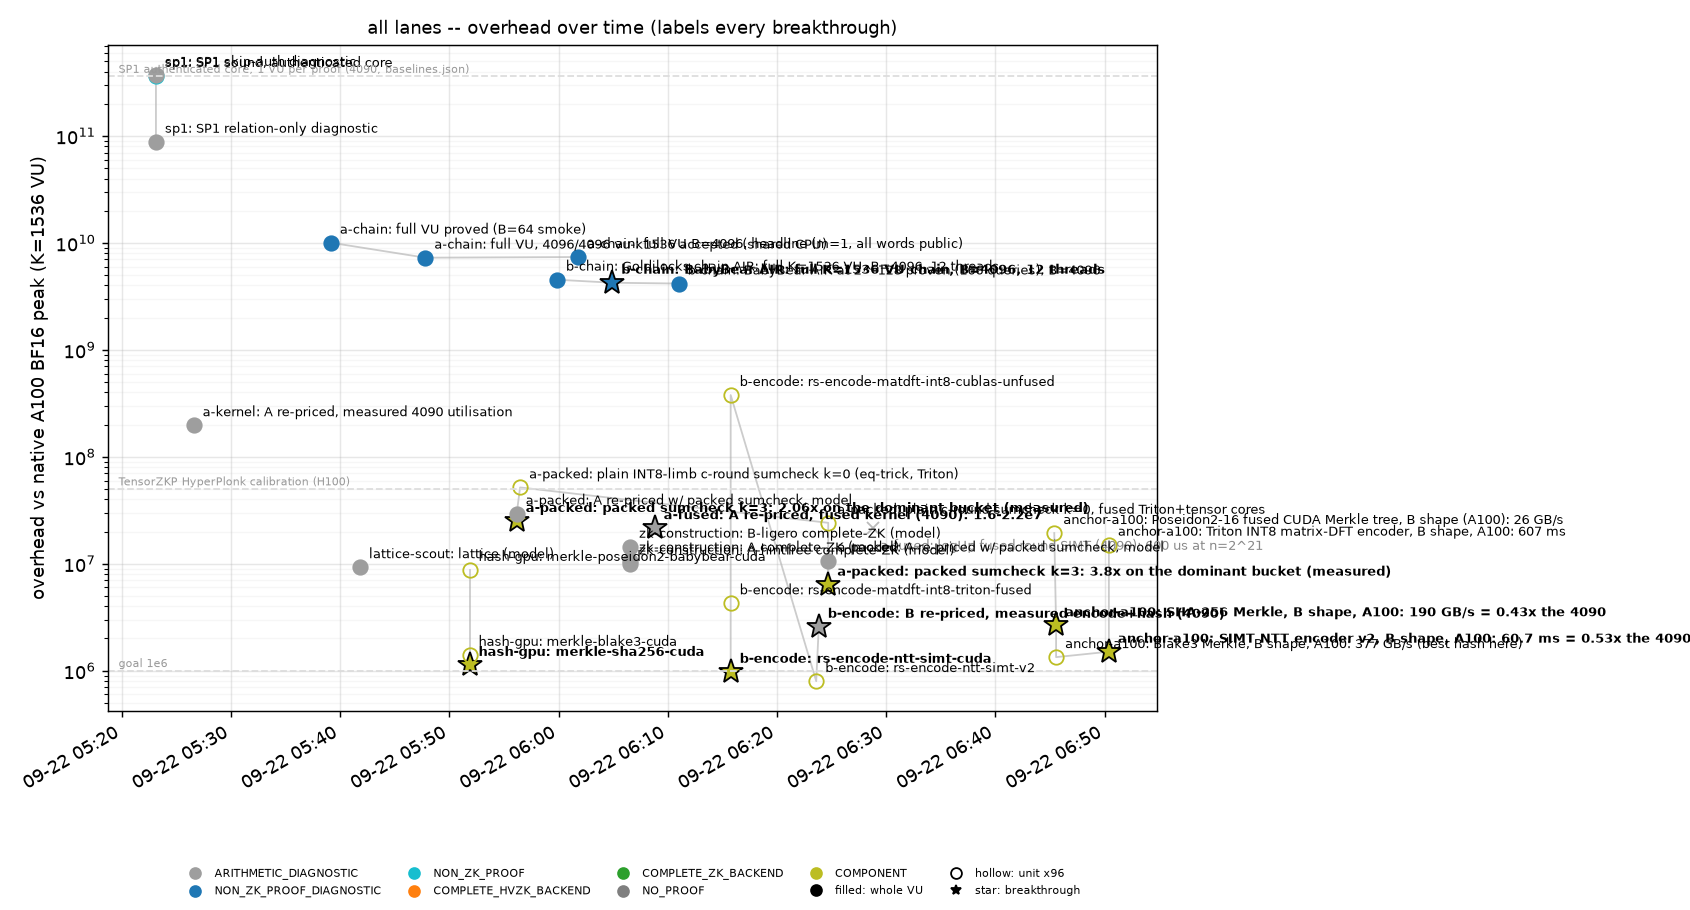
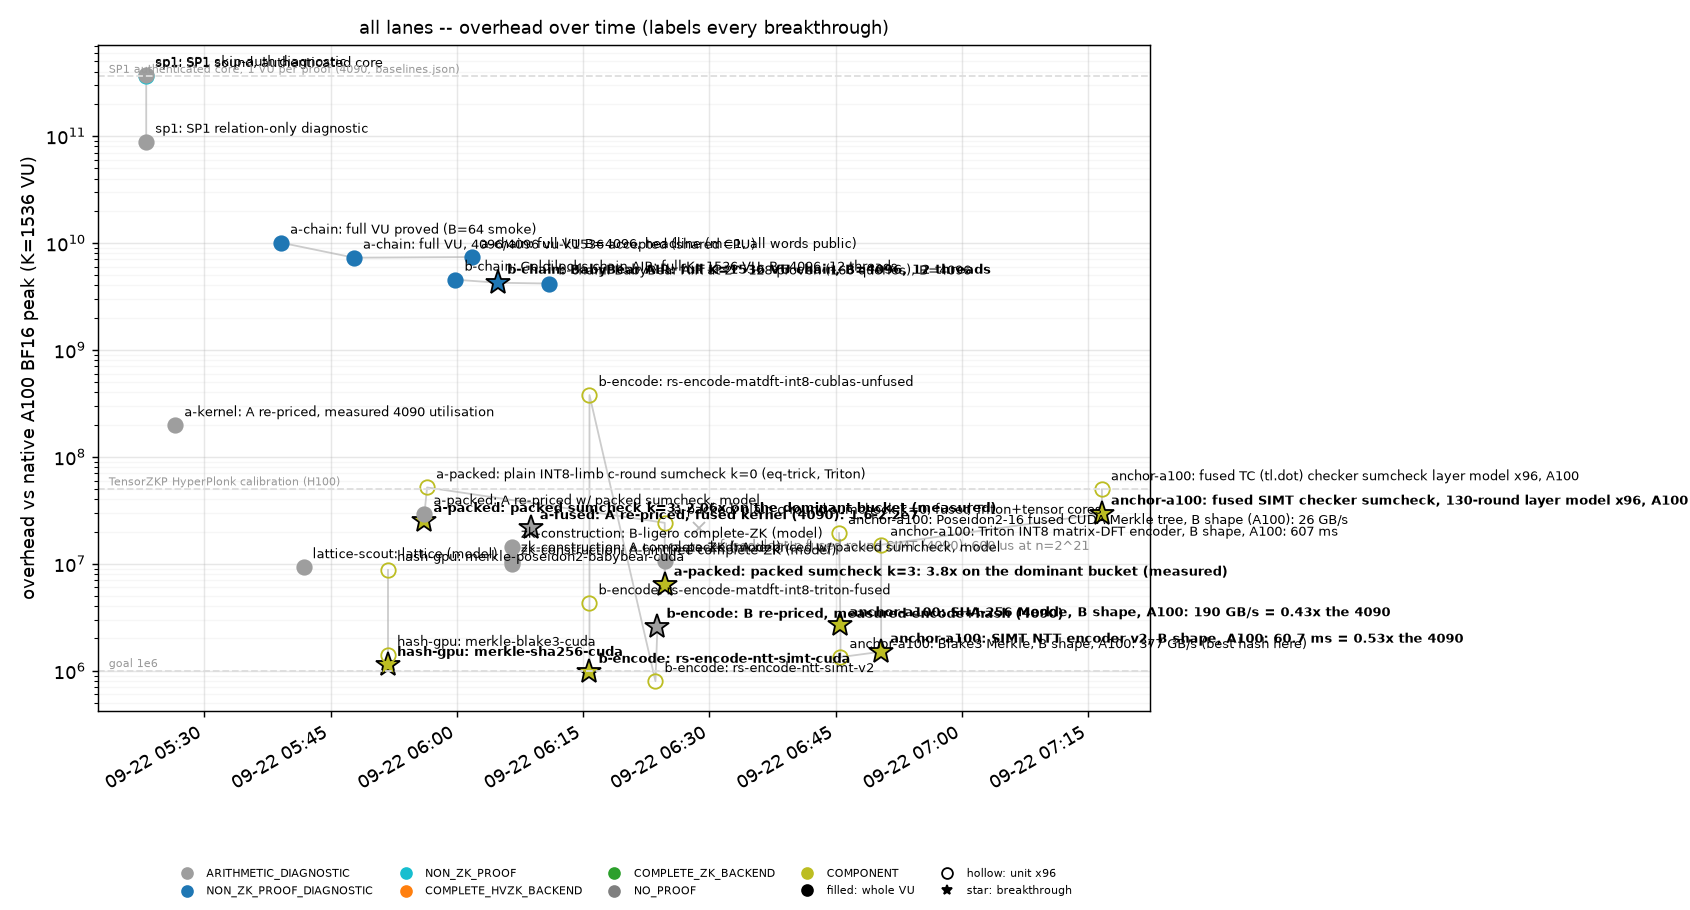
anchor-a100: fused ledger entries, interim report

diff --git a/backends/numerical/reports/anchor_a100.md b/backends/numerical/reports/anchor_a100.md
@@ -2,7 +2,7 @@
 
 **Scope: component measurements** (kernel time on random/patterned data, bit-exact against each lane's CPU reference), then one `ARITHMETIC_DIAGNOSTIC` re-price of A and B with those numbers.  Nothing here is a proof.  Every recorded 4090 / H100 number is the lane's own (its README / report, run id in the lane's table); every A100 number is a `research run --on vy-a100b --exclusive` of the same bench, same flags, CUDA events, warm, median of >= 7, bit-exact checks on.  `overhead.vs_native_peak` is defined against *this* card's dense BF16 peak (`contract.NATIVE_REFERENCE`, 9.85 ps per K=1536 VU), so the last section is the first A-vs-B comparison where the prover and the reference are the same machine.
 
-Device: NVIDIA A100-SXM4-80GB, 580.126.16, 1410 MHz, 1593 MHz, 81920 MiB; torch 2.6.0+cu124, CUDA 12.4, 108 SMs (sm_80).  Recorded runs: microbench `r20260922-063608-a304`, hash_gpu `r20260922-063811-e561`, encode `r20260922-064413-0508`.
+Device: NVIDIA A100-SXM4-80GB, 580.126.16, 1410 MHz, 1593 MHz, 81920 MiB; torch 2.6.0+cu124, CUDA 12.4, 108 SMs (sm_80).  Recorded runs: microbench `r20260922-063608-a304`, hash_gpu `r20260922-063811-e561`, encode `r20260922-064413-0508`, fused `r20260922-064953-f9bb`.
 
 Bandwidth ratios the earlier reports *scaled* by: A100/4090 = 2,039/1,008 = 2.02; A100/H100 = 2,039/3,350 = 0.61.  Speed ratios below are recorded-time / A100-time (> 1 = the A100 is faster); a departure from the bandwidth ratio by > 1.5x either way is a finding about the kernel and is flagged.
 
@@ -104,6 +104,31 @@ Bit-exact checks on the A100 (64 full rows vs the numpy reference): `{'simt_v1_t
 
 The SIMT NTT (v2, 512 threads) encodes the B batch in **60.7 ms** on the A100 (0.53x the 4090; bandwidth ratio 2.02), 0.24 of the measured-bandwidth HBM floor (14.5 ms) and 0.21 of the datasheet floor.  The fused Triton INT8 matrix DFT takes 607 ms (0.28x the 4090, 0.055 of the A100 INT8 peak): the SIMT NTT beats it by 10.0x on the anchor too.
 
+## 3. `backends/gkr/tensor/fused` -- fused checker sumcheck round (4090 run `r20260922-060339-740b`)
+
+| fused checker round | RTX 4090 recorded | A100 measured | speed ratio A100/4090 | A100 HBM floor (measured BW) | fraction of floor |
+|---|---|---|---|---|---|
+| simt round, 2^23, ext input, fold+eval | 1,014 us (894 GB/s) | 1,871 us (484 GB/s) | 0.54x | 517 us | 0.28 |
+| simt round, 2^22, ext input, fold+eval | 520 us (871 GB/s) | 935 us (484 GB/s) | 0.56x | 258 us | 0.28 |
+| simt round, 2^22, base input, fold+eval | 256 us (786 GB/s) | 607 us (332 GB/s) | 0.42x | 115 us | 0.19 |
+| simt round, 2^21, ext input, fold+eval | 273 us (828 GB/s) | 474 us (478 GB/s) | 0.58x | 129 us | 0.27 |
+| simt round, 2^20, ext input, fold+eval | 153 us (742 GB/s) | 244 us (464 GB/s) | 0.62x | 65 us | 0.26 |
+| simt round, 2^20, base input, fold+eval | 82 us (614 GB/s) | 159 us (317 GB/s) | 0.52x | 29 us | 0.18 |
+| simt round, 2^18, ext input, fold+eval | 50 us (564 GB/s) | 78 us (362 GB/s) | 0.64x | 16 us | 0.21 |
+| tc round, 2^23, ext input, fold+eval | 1,960 us (462 GB/s) | 6,246 us (145 GB/s) | 0.31x | 517 us | 0.08 |
+| tc round, 2^22, ext input, fold+eval | 988 us (458 GB/s) | 3,131 us (145 GB/s) | 0.32x | 258 us | 0.08 |
+| tc round, 2^21, ext input, fold+eval | 506 us (448 GB/s) | 1,569 us (144 GB/s) | 0.32x | 129 us | 0.08 |
+| tc round, 2^20, ext input, fold+eval | 263 us (430 GB/s) | 796 us (142 GB/s) | 0.33x | 65 us | 0.08 |
+| tc round, 2^18, ext input, fold+eval | 77 us (369 GB/s) | 210 us (135 GB/s) | 0.37x | 16 us | 0.08 |
+| simt 6-layer / 130-round layer model, graphed | 6.20 ms | 12.35 ms | 0.50x | 2.11 ms | 0.17 |
+| simt layer model, eager | 8.72 ms | 13.40 ms | 0.65x |  |  |
+| tc 6-layer / 130-round layer model, graphed | 8.48 ms | 20.85 ms | 0.41x | 2.11 ms | 0.10 |
+| tc layer model, eager | 10.11 ms | 22.39 ms | 0.45x |  |  |
+
+Bit-exact tests on the A100 (`TC_DEVICE=cuda pytest tensor/fused/tests`): 25 passed in 1188.44s (0:19:48)
+
+The SIMT fused round at 2^21 (ext input, cold L2) runs **474 us** on the A100 (0.58x the 4090's 273 us; 478 GB/s = 0.27 of the measured-bandwidth floor).  The 130-round layer model: 12.35 ms graphed (0.50x the 4090's 6.20 ms).
+
 ## A vs B on the A100, same batch, same numbers
 
 `explore.tensor` designs A and B (BabyBear, degree-6 challenge, 2^-128, B = 4096, K = 1536, HVZK layer, authentication excluded) priced on the A100 with the A100-measured buckets substituted; the still-modelled buckets are at 0.172 of the A100 INT8 peak / the model's SIMT rate and are listed as `omitted`.  Labels: `ARITHMETIC_DIAGNOSTIC`, scope `vu`, hardware NVIDIA A100 SXM4 80GB.
@@ -111,9 +136,9 @@ The SIMT NTT (v2, 512 threads) encodes the B batch in **60.7 ms** on the A100 (0
 | design | model only (A100 peaks @0.172, Blake3 50 GB/s) | **A100-measured buckets** overhead (t.total) | buckets | measured buckets |
 |---|---|---|---|---|
 | B | 2.38e+07 (962 ms) | 4.88e+06 (197 ms) | encoding 57.4 ms; hash 54.0 ms; matmul_modelled 10.1 ms; simt_field_modelled 70.6 ms; hint_gen_modelled 1.6 ms; prg_modelled 3.2 ms | encoding: True; hash: True |
-| A | 3.17e+07 (1278 ms) | 2.88e+07 (1160 ms) | encoding 11.0 ms; hash 9.0 ms; matmul_modelled 505.4 ms; simt_field_modelled 632.1 ms; hint_gen_modelled 1.6 ms; prg_modelled 0.5 ms; gkr_checker_modelled 850.1 ms; logup_modelled 248.8 ms | encoding: True; hash: True |
+| A | 3.17e+07 (1278 ms) | 3.71e+07 (1495 ms) | encoding 11.0 ms; hash 9.0 ms; matmul_modelled 505.4 ms; simt_field_modelled 632.1 ms; hint_gen_modelled 1.6 ms; prg_modelled 0.5 ms; gkr_checker_modelled 850.1 ms; logup_modelled 248.8 ms; gkr_checker_measured 1185.4 ms | encoding: True; hash: True; gkr_checker: fused SIMT layer model x96 (graphed) |
 
-Measured inputs: `hash_rate_B` = 3.77e+11; `hash_rate_A` = 3.56e+11; `hash_B_kernel` = blake3; `hash_A_kernel` = blake3; `encoder_seconds_per_row_B` = 1.85e-07; `encoder_B_kernel` = ntt_simt_v2_t1024; `encoder_seconds_per_row_A` = 2.25e-07; `encoder_A_kernel` = ntt_simt_v2_t1024
+Measured inputs: `hash_rate_B` = 3.77e+11; `hash_rate_A` = 3.56e+11; `hash_B_kernel` = blake3; `hash_A_kernel` = blake3; `encoder_seconds_per_row_B` = 1.85e-07; `encoder_B_kernel` = ntt_simt_v2_t1024; `encoder_seconds_per_row_A` = 2.25e-07; `encoder_A_kernel` = ntt_simt_v2_t1024; `fused_layer_graphed_s` = 0.0123; `fused_checker_round_2p21_us` = 473.7920
 
 * **B**: overhead **4.88e+06** (197 ms per batch, 48 us/VU).  Measured: encoding = True; hash = True.  Omitted (modelled): witness/hint generation (modelled: 2e4 int ops per unit at 25% of the A100 FP32 peak); Ligero row combination (modelled matmul @0.172 of the A100 INT8 peak); openings and transcript serialisation (not priced); prover randomness (modelled PRG at 100 GB/s); linear/quadratic tests, constraint combination, helper inversions (modelled SIMT at the A100 rate).
-* **A**: overhead **2.88e+07** (1160 ms per batch, 283 us/VU).  Measured: encoding = True; hash = True.  Omitted (modelled): witness/hint generation (modelled: 2e4 int ops per unit at 25% of the A100 FP32 peak); Ligero row combination (modelled matmul @0.172 of the A100 INT8 peak); openings and transcript serialisation (not priced); prover randomness (modelled PRG at 100 GB/s); checker GKR sumcheck (modelled @0.172); logUp fractional GKR (modelled @0.172).
+* **A**: overhead **3.71e+07** (1495 ms per batch, 365 us/VU).  Measured: encoding = True; hash = True; gkr_checker = fused SIMT layer model x96 (graphed).  Omitted (modelled): witness/hint generation (modelled: 2e4 int ops per unit at 25% of the A100 FP32 peak); Ligero row combination (modelled matmul @0.172 of the A100 INT8 peak); openings and transcript serialisation (not priced); prover randomness (modelled PRG at 100 GB/s); logUp fractional GKR (modelled @0.172).
